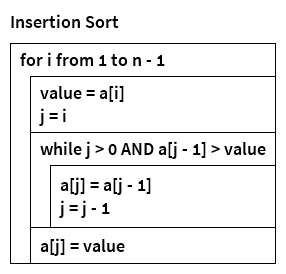
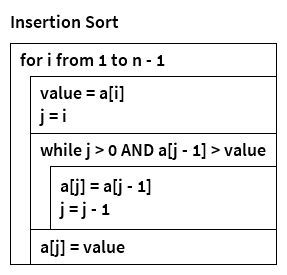
Refactor element size and placement code.

diff --git a/src/eu/greenlightning/nsdg/elements/Switch.java b/src/eu/greenlightning/nsdg/elements/Switch.java
@@ -74,22 +74,17 @@ public class Switch implements Element {
 
 	@Override
 	public void paint(Graphics2D g, int width, int height) {
-		int divider;
-		if (defaultLabelled != null) {
-			double dividerPercentage = getCaseWidth(g) / (double) getLabelledWidth(g);
-			divider = (int) (width * dividerPercentage);
-		} else {
-			divider = width - 1;
-		}
+		double dividerPercentage = getCaseWidth(g) / (double) getLabelledWidth(g);
+		int divider = (int) (width * dividerPercentage);
 		int titleHeight = getTitleHeight(g);
-		g.drawRect(0, 0, width - 1, height - 1);
+		g.drawRect(0, 0, width, height);
 		g.drawLine(0, 0, divider, titleHeight);
-		g.drawLine(divider, titleHeight, width - 1, 0);
+		g.drawLine(divider, titleHeight, width, 0);
 		if (defaultLabelled != null) {
-			expression.paint(g,
-				divider - (int) ((double) divider / width * expression.getWidth(g)), 5);
+			int offset = (int) ((double) divider / width * expression.getWidth(g));
+			expression.paint(g, divider - offset, 5);
 		} else {
-			expression.paint(g, width - expression.getWidth(g) - 11, 5);
+			expression.paint(g, width - expression.getWidth(g) - 10, 5);
 		}
 		int labelHeight = 5 + expression.getHeight(g) + 5;
 		int offset = 0;
@@ -109,7 +104,7 @@ public class Switch implements Element {
 			g.translate(offset, titleHeight);
 			Text label = caseLabelled.getLabel();
 			label.paint(g, (caseWidth - label.getWidth(g)) / 2, -5 - label.getHeight(g));
-			caseLabelled.getChild().paint(g, caseWidth + 1, height - titleHeight);
+			caseLabelled.getChild().paint(g, caseWidth, height - titleHeight);
 			g.translate(-offset, -titleHeight);
 			offset += caseWidth;
 		}

diff --git a/src/eu/greenlightning/nsdg/elements/TestLoop.java b/src/eu/greenlightning/nsdg/elements/TestLoop.java
@@ -23,14 +23,14 @@ public class TestLoop implements Element {
 	@Override
 	public int getWidth(Graphics2D g) {
 		int max = 0;
-		max = Math.max(max, condition.getWidth(g) + 20);
-		max = Math.max(max, side.getWidth(g) + 20 + child.getWidth(g));
+		max = Math.max(max, 10 + condition.getWidth(g) + 10);
+		max = Math.max(max, 10 + side.getWidth(g) + 10 + child.getWidth(g));
 		return max;
 	}
 
 	@Override
 	public int getHeight(Graphics2D g) {
-		int middle = Math.max(side.getHeight(g) + 10, child.getHeight(g));
+		int middle = Math.max(5 + side.getHeight(g) + 5, child.getHeight(g));
 		return 5 + condition.getHeight(g) + 5 + middle + 5;
 	}
 
@@ -40,7 +40,7 @@ public class TestLoop implements Element {
 		double sidePercentage = (10 + side.getWidth(g) + 10) / (double) getWidth(g);
 		int conditionHeight = (int) (conditionPercentage * height);
 		int sideWidth = (int) (sidePercentage * width);
-		g.drawRect(0, 0, width - 1, height - 1);
+		g.drawRect(0, 0, width, height);
 		if (testFirst) {
 			condition.paint(g, 10, (conditionHeight - condition.getHeight(g)) / 2);
 			side.paint(g, (sideWidth - side.getWidth(g)) / 2, conditionHeight

diff --git a/src/eu/greenlightning/nsdg/elements/Branch.java b/src/eu/greenlightning/nsdg/elements/Branch.java
@@ -50,7 +50,7 @@ public class Branch implements Element {
 		double leftPercentage = left.getChild().getWidth(g) / (double) getLabelledWidth(g);
 		int center = (int) (leftPercentage * width);
 		int titleHeight = getTitleHeight(g);
-		g.drawRect(0, 0, width - 1, height - 1);
+		g.drawRect(0, 0, width, height);
 		g.drawLine(0, 0, center, titleHeight);
 		g.drawLine(center, titleHeight, width - 1, 0);
 		condition.paint(g, center - (int) (leftPercentage * condition.getWidth(g)), 5);
@@ -58,7 +58,7 @@ public class Branch implements Element {
 		left.getLabel().paint(g, 10, labelOffset);
 		right.getLabel().paint(g, width - 10 - right.getLabel().getWidth(g), labelOffset);
 		g.translate(0, titleHeight);
-		left.getChild().paint(g, center + 1, height - titleHeight);
+		left.getChild().paint(g, center, height - titleHeight);
 		g.translate(center, 0);
 		right.getChild().paint(g, width - center, height - titleHeight);
 		g.translate(-center, -titleHeight);

diff --git a/src/eu/greenlightning/nsdg/elements/Diagram.java b/src/eu/greenlightning/nsdg/elements/Diagram.java
@@ -23,18 +23,18 @@ public class Diagram implements Element {
 	@Override
 	public int getWidth(Graphics2D g) {
 		if (hasTitle()) {
-			return 10 + Math.max(title.getWidth(g), child.getWidth(g)) + 10;
+			return 10 + Math.max(title.getWidth(g), child.getWidth(g)) + 1 + 10;
 		} else {
-			return 10 + child.getWidth(g) + 10;
+			return 10 + child.getWidth(g) + 1 + 10;
 		}
 	}
 
 	@Override
 	public int getHeight(Graphics2D g) {
 		if (hasTitle()) {
-			return 10 + title.getHeight(g) + 10 + child.getHeight(g) + 10;
+			return 10 + title.getHeight(g) + 10 + child.getHeight(g) + 1 + 10;
 		} else {
-			return 10 + child.getHeight(g) + 10;
+			return 10 + child.getHeight(g) + 1 + 10;
 		}
 	}
 
@@ -48,7 +48,7 @@ public class Diagram implements Element {
 			y += 10;
 		}
 		g.translate(x, y);
-		child.paint(g, width - x - 10, height - y - 10);
+		child.paint(g, width - x - 1 - 10, height - y - 1 - 10);
 		g.translate(-x, -y);
 	}
 

diff --git a/src/eu/greenlightning/nsdg/elements/InfiniteLoop.java b/src/eu/greenlightning/nsdg/elements/InfiniteLoop.java
@@ -43,12 +43,12 @@ public class InfiniteLoop implements Element {
 		int topHeight = (int) (topPercentage * height);
 		int bottomHeight = (int) (bottomPercentage * height);
 		int sideWidth = (int) (sidePercentage * width);
-		g.drawRect(0, 0, width - 1, height - 1);
+		g.drawRect(0, 0, width, height);
 		top.paint(g, 10, (topHeight - top.getHeight(g)) / 2);
 		side.paint(g, 10, topHeight + (height - topHeight - bottomHeight - side.getHeight(g)) / 2);
 		bottom.paint(g, 10, height - bottomHeight + (bottomHeight - bottom.getHeight(g)) / 2);
 		g.translate(sideWidth, topHeight);
-		child.paint(g, width - sideWidth, height - topHeight - bottomHeight + 1);
+		child.paint(g, width - sideWidth, height - topHeight - bottomHeight);
 		g.translate(-sideWidth, -topHeight);
 	}
 

diff --git a/src/eu/greenlightning/nsdg/elements/Block.java b/src/eu/greenlightning/nsdg/elements/Block.java
@@ -17,18 +17,18 @@ public class Block implements Element {
 
 	@Override
 	public int getWidth(Graphics2D g) {
-		return text.getWidth(g) + 20;
+		return 10 + text.getWidth(g) + 10;
 	}
 
 	@Override
 	public int getHeight(Graphics2D g) {
-		return text.getHeight(g) + 10;
+		return 5 + text.getHeight(g) + 5;
 	}
 
 	@Override
 	public void paint(Graphics2D g, int width, int height) {
 		g.setColor(Color.BLACK);
-		g.drawRect(0, 0, width - 1, height - 1);
+		g.drawRect(0, 0, width, height);
 		int x = 10;
 		int y = (height - text.getHeight(g)) / 2;
 		text.paint(g, x, y);

diff --git a/src/eu/greenlightning/nsdg/elements/Procedure.java b/src/eu/greenlightning/nsdg/elements/Procedure.java
@@ -21,9 +21,9 @@ public class Procedure extends Block {
 	@Override
 	public void paint(Graphics2D g, int width, int height) {
 		g.setColor(Color.BLACK);
-		g.drawRect(0, 0, width - 1, height - 1);
-		g.drawLine(10, 0, 10, height - 1);
-		g.drawLine(width - 11, 0, width - 11, height - 1);
+		g.drawRect(0, 0, width, height);
+		g.drawLine(10, 0, 10, height);
+		g.drawLine(width - 10, 0, width - 10, height);
 		int x = (width - text.getWidth(g)) / 2;
 		int y = (height - text.getHeight(g)) / 2;
 		text.paint(g, x, y);

diff --git a/src/eu/greenlightning/nsdg/elements/Break.java b/src/eu/greenlightning/nsdg/elements/Break.java
@@ -21,7 +21,7 @@ public class Break extends Block {
 	@Override
 	public void paint(Graphics2D g, int width, int height) {
 		g.setColor(Color.BLACK);
-		g.drawRect(0, 0, width - 1, height - 1);
+		g.drawRect(0, 0, width, height);
 		g.drawLine(10, 0, 0, height / 2);
 		g.drawLine(0, height / 2, 10, height - 1);
 		int x = 10 + (width - 10 - text.getWidth(g)) / 2;

diff --git a/src/eu/greenlightning/nsdg/elements/Empty.java b/src/eu/greenlightning/nsdg/elements/Empty.java
@@ -12,7 +12,7 @@ public class Empty extends Block {
 	@Override
 	public void paint(Graphics2D g, int width, int height) {
 		g.setColor(Color.BLACK);
-		g.drawRect(0, 0, width - 1, height - 1);
+		g.drawRect(0, 0, width, height);
 		int x = (width - text.getWidth(g)) / 2;
 		int y = (height - text.getHeight(g)) / 2;
 		text.paint(g, x, y);

diff --git a/src/eu/greenlightning/nsdg/elements/Sequence.java b/src/eu/greenlightning/nsdg/elements/Sequence.java
@@ -40,7 +40,7 @@ public class Sequence implements Element {
 			g.translate(0, running);
 			child.paint(g, width, childHeight);
 			g.translate(0, -running);
-			running += childHeight - 1;
+			running += childHeight;
 		}
 		g.translate(0, running);
 		children.get(children.size() - 1).paint(g, width, height - running);
